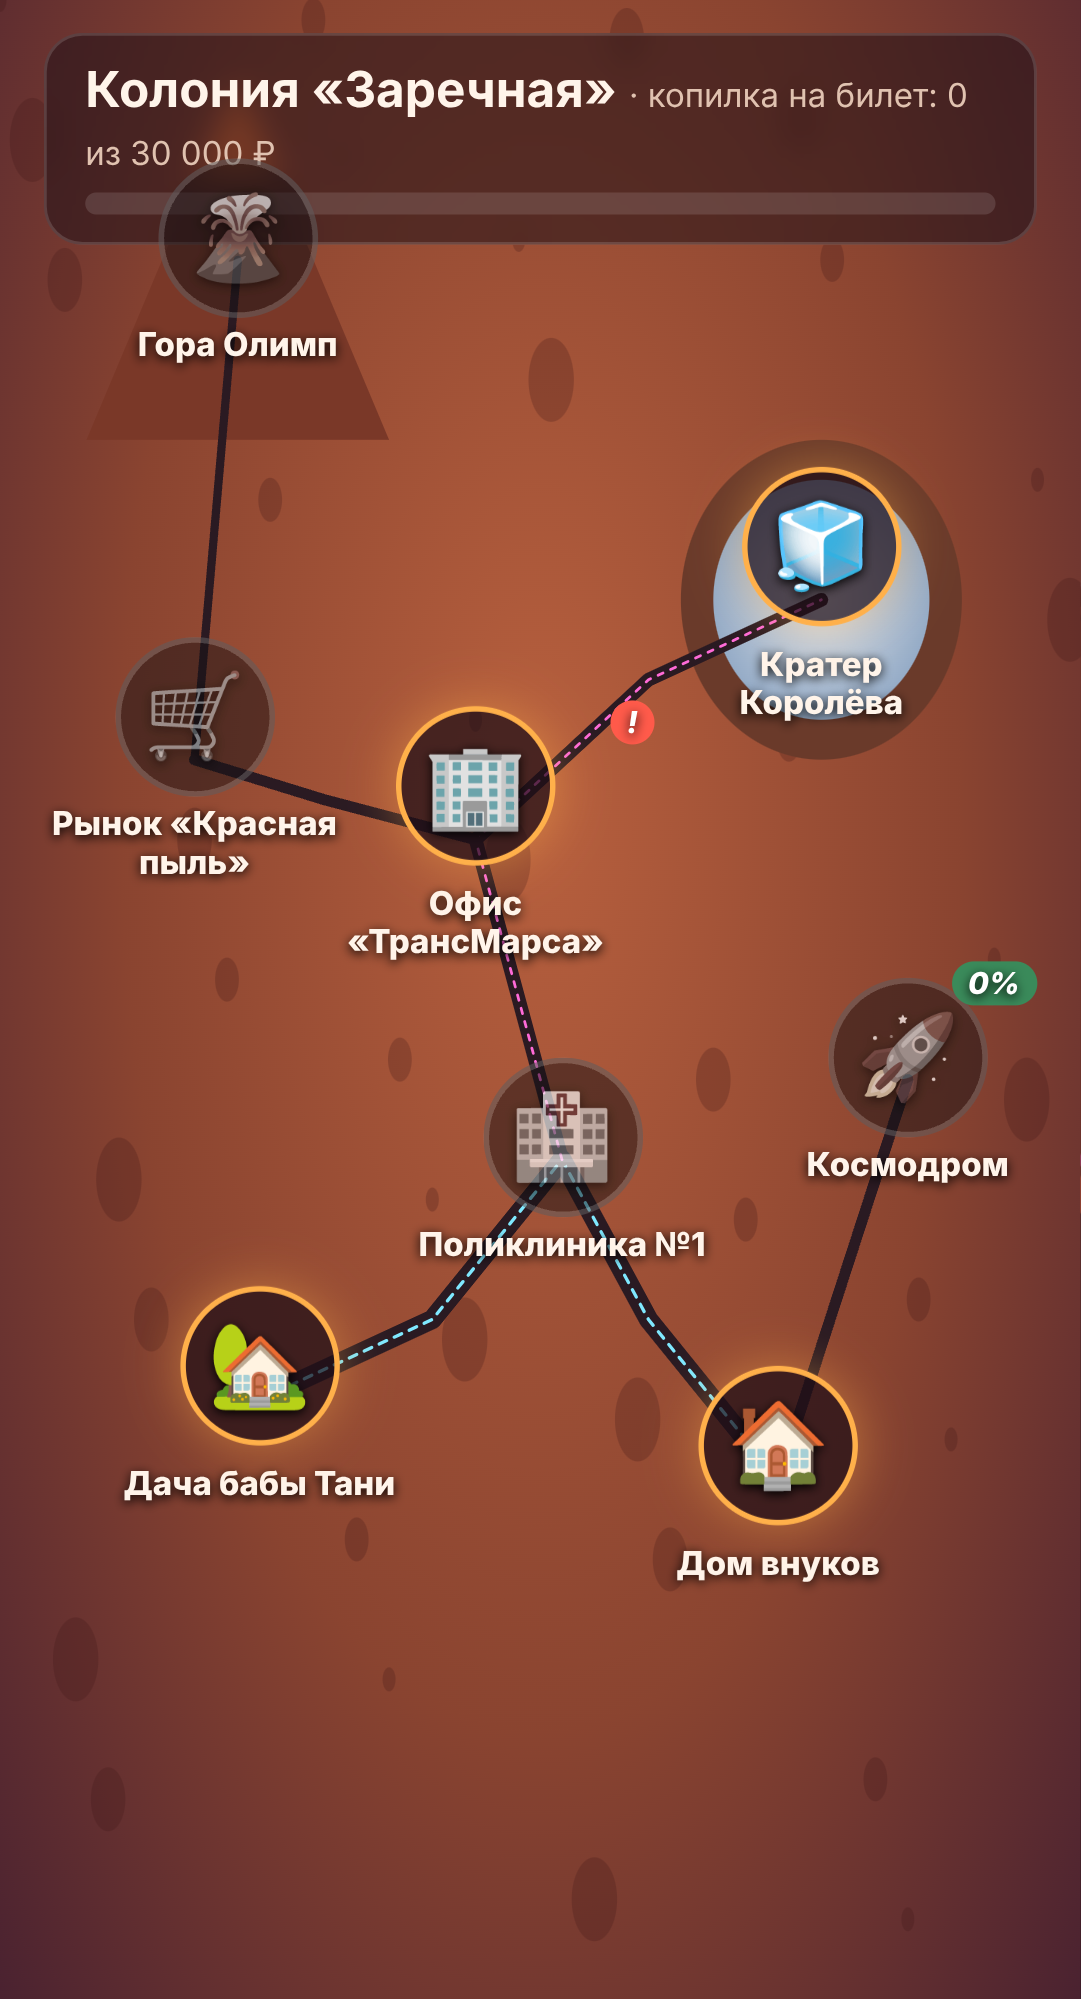
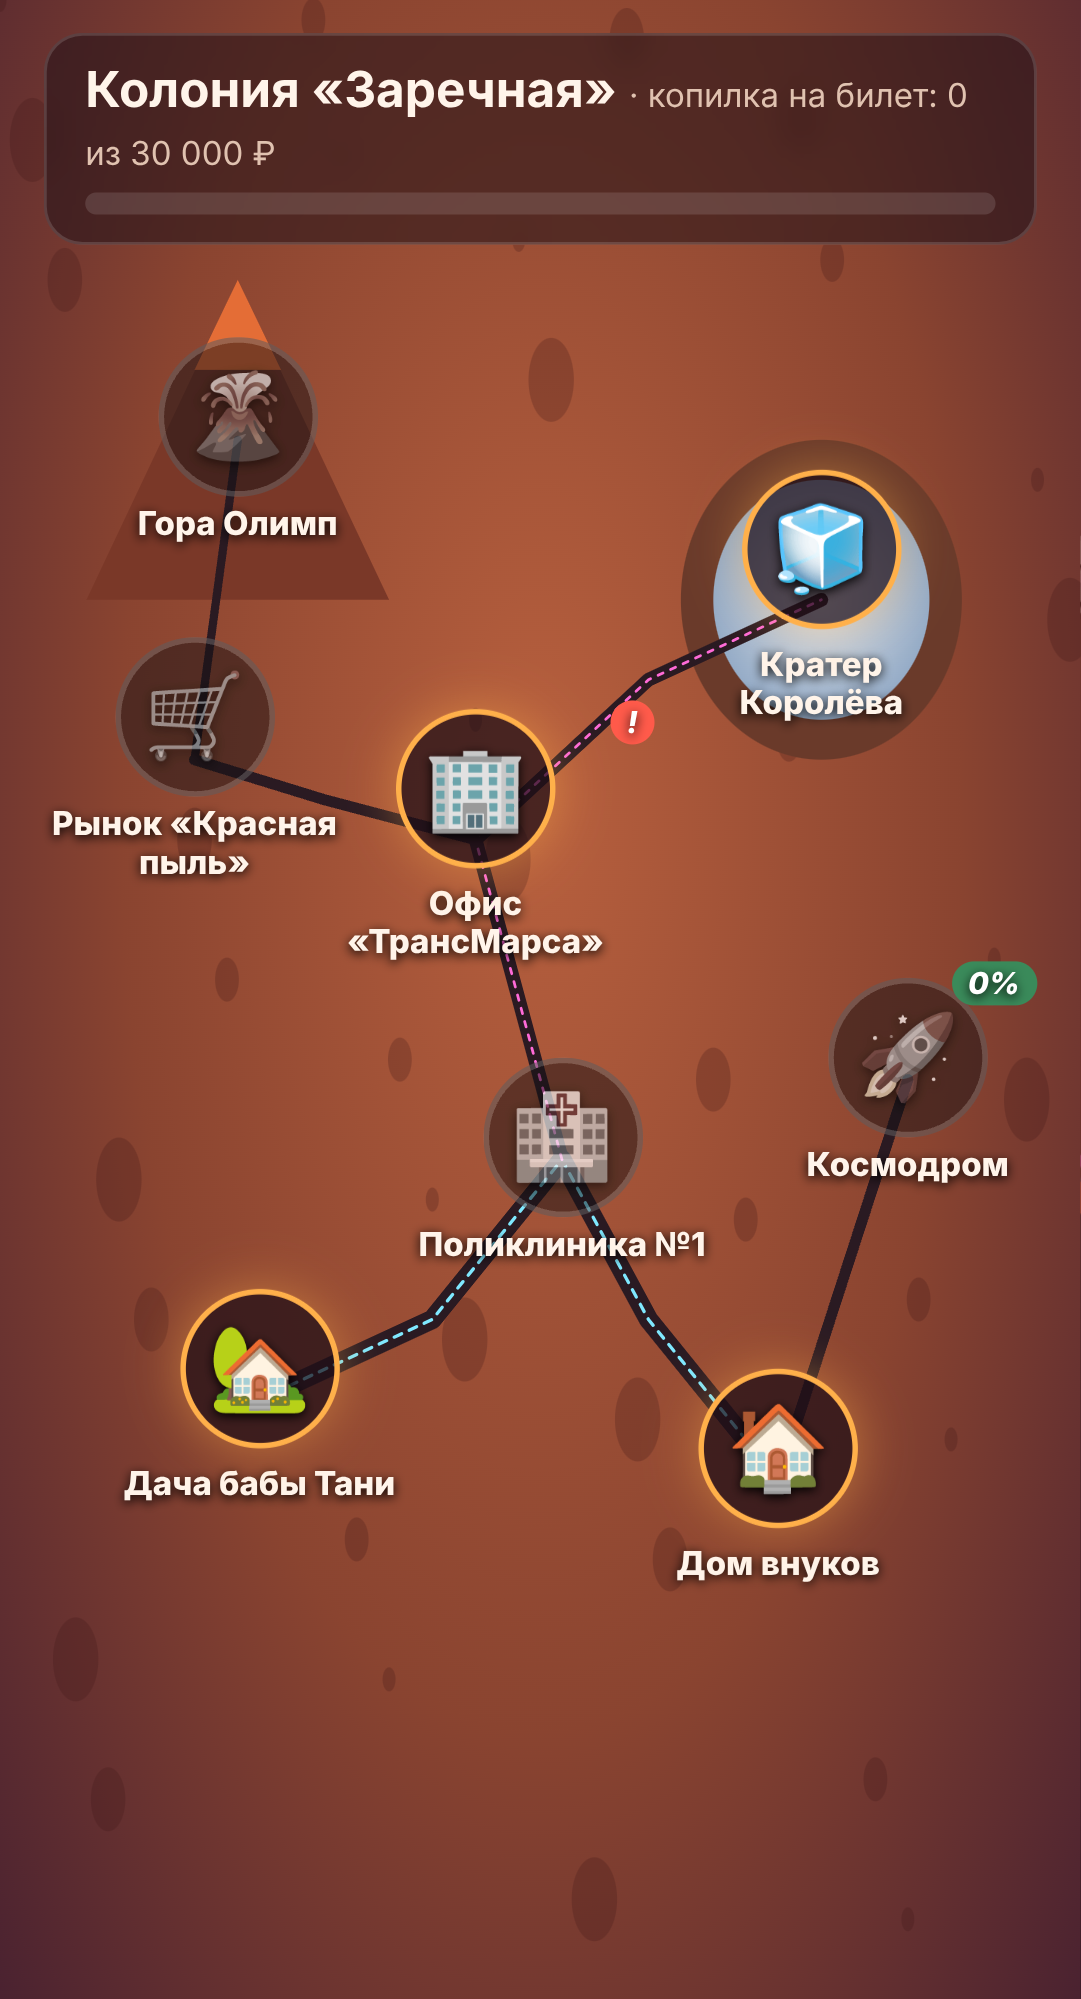
Карта: Олимп не залезает под шапку
Claude-Session: https://claude.ai/code/session_01AAVyg9hnNuQWfjRJmraoWp

diff --git a/index.html b/index.html
@@ -1422,17 +1422,17 @@ const PLACES_MAP = [
   { id: 'market', e: '🛒', name: 'Рынок «Красная пыль»', x: 18, y: 38, d: 'Торг, роботы-покупатели, курс картошки', lock: 'Скоро: пешие миссии' },
   { id: 'clinic', e: '🏥', name: 'Поликлиника №1', x: 52, y: 58, d: 'Талон № 4 000 017', lock: 'Скоро: самая смешная очередь' },
   { id: 'port', e: '🚀', name: 'Космодром', x: 84, y: 54, d: 'Билет на Землю', lock: 'Финал: копилка' },
-  { id: 'olymp', e: '🌋', name: 'Гора Олимп', x: 22, y: 13, d: 'Спит. Пока', lock: 'Скоро: извержение' },
+  { id: 'olymp', e: '🌋', name: 'Гора Олимп', x: 22, y: 22, d: 'Спит. Пока', lock: 'Скоро: извержение' },
 ];
 function drawMapSvg() {
   const road = (pts, col, w, dash) => `<polyline points="${pts}" fill="none" stroke="${col}" stroke-width="${w}" ${dash ? 'stroke-dasharray="' + dash + '"' : ''} stroke-linecap="round" stroke-linejoin="round" vector-effect="non-scaling-stroke"/>`;
   let h = '<defs><radialGradient id="ice"><stop offset="0" stop-color="#e8f4ff"/><stop offset="1" stop-color="#9ab8d8"/></radialGradient></defs>';
   for (let k = 0; k < 40; k++) { const x = (k * 37) % 100, y = (k * 53) % 100; h += `<circle cx="${x}" cy="${y}" r="${0.6 + (k % 4) * 0.5}" fill="rgba(60,20,20,.25)"/>`; }
   h += '<ellipse cx="76" cy="30" rx="13" ry="8" fill="#6a3a2a"/><ellipse cx="76" cy="30" rx="10" ry="6" fill="url(#ice)" opacity=".9"/>';
-  h += '<polygon points="8,22 22,4 36,22" fill="#7a3828"/><polygon points="18,9 22,4 26,9" fill="#ff7a3a" opacity=".8"/>';
+  h += '<polygon points="8,30 22,14 36,30" fill="#7a3828"/><polygon points="18,18.5 22,14 26,18.5" fill="#ff7a3a" opacity=".8"/>';
   h += road('24,70 40,66 52,58 60,66 72,74', '#2a1a22', 7) + road('24,70 40,66 52,58 60,66 72,74', '#7fe8ff', 1.2, '3 3');
   h += road('52,58 44,42 60,34 76,30', '#2a1a22', 5) + road('52,58 44,42 60,34 76,30', '#ff6ad8', 1, '2 3');
-  h += road('44,42 30,40 18,38', '#2a1a22', 4) + road('72,74 84,54', '#2a1a22', 4) + road('18,38 22,13', '#2a1a22', 3);
+  h += road('44,42 30,40 18,38', '#2a1a22', 4) + road('72,74 84,54', '#2a1a22', 4) + road('18,38 22,22', '#2a1a22', 3);
   $('mapSvg').innerHTML = h;
 }
 function showMap() {

diff --git a/docs/obnovleniya.md b/docs/obnovleniya.md
@@ -1,7 +1,7 @@
 # «Бабуля на Марсе» — журнал изменений
 
 ## v0.10 — карта колонии и оборона дачи (15.11.2026)
-- **Карта колонии** «Колония Марс-7»: после каждого заезда кнопка «🗺 На карту». Точки: Дача бабы Тани (огород, оборона), Дом внуков (картошка, варенье, пирожки, рассада), Кратер Королёва (рыбалка), «ТрансМарс» (Димон). Закрыты замками на будущее: рынок «Красная пыль», поликлиника, космопорт (виден процент копилки на билет), Олимп. Нажал на точку — карточка с миссиями.
+- **Карта колонии** «Колония „Заречная“»: после каждого заезда кнопка «🗺 На карту». Точки: Дача бабы Тани (огород, оборона), Дом внуков (картошка, варенье, пирожки, рассада), Кратер Королёва (рыбалка), «ТрансМарс» (Димон). Закрыты замками на будущее: рынок «Красная пыль», поликлиника, космопорт (виден процент копилки на билет), Олимп. Нажал на точку — карточка с миссиями.
 - **Оборона дачи** (шутер одним пальцем): ночь, медведи с полюса идут к погребу с вареньем. Бабка с дробовиком (заряжен солью — никто не пострадал), тап по медведю — выстрел, 2 патрона, перезарядка кнопкой, свайпом вниз или R. Виды: медвежонок, медведь с ведром, медведь в каске (2 попадания), Михал Потапыч с плакатом «ВАРЕНЬЕ — НАРОДНОЕ!» (5 попаданий). Попавший медведь убегает, утащившему банку — минус банка. 60 секунд до рассвета, оплата за спасённые банки и попадания, бонус клубникой.
 - Огород «К заказам» теперь тоже открывает карту.
 
